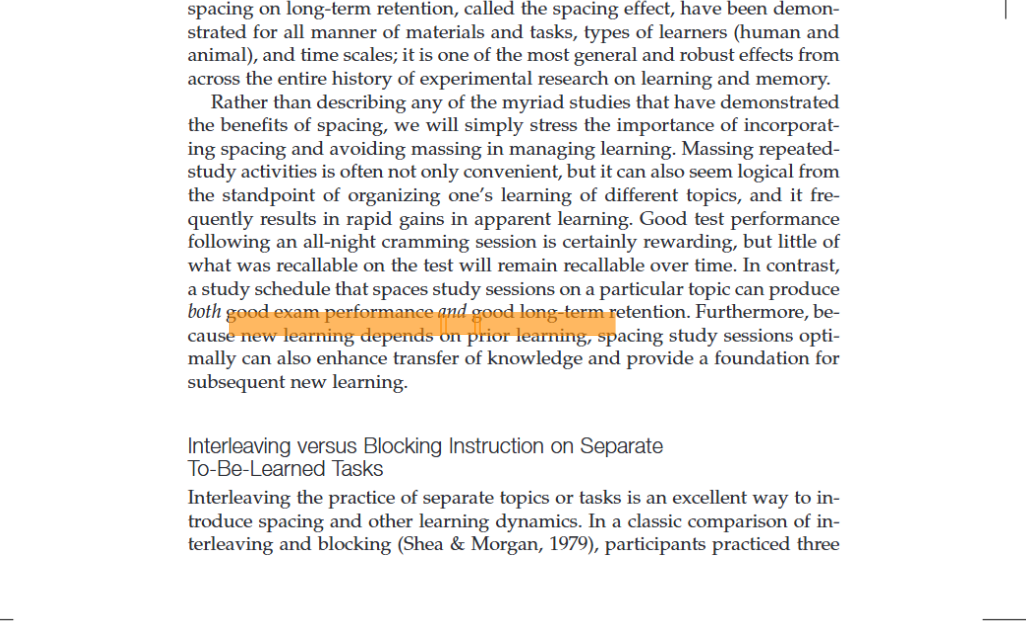
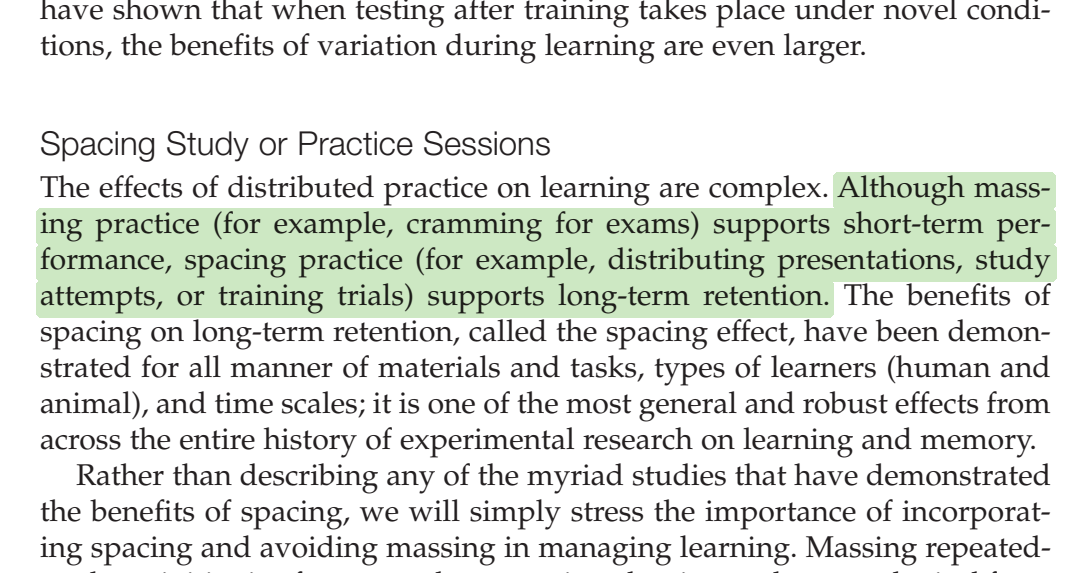
Proof image: highlight drawn exactly over the supporting sentence; scope no-account and offline claims to the free tier, disclose paid-tier licence checks

diff --git a/index.html b/index.html
@@ -111,10 +111,10 @@
   <header data-screen-label="Hero" style="max-width: 1200px; margin: 0px auto; padding: 64px 40px 40px; display: grid; grid-template-columns: 1fr; gap: 44px; align-items: start; animation: 0.6s ease-out 0s 1 normal both running riseIn;">
     <div>
       <div style="display: inline-flex; align-items: center; gap: 10px; font-family: &quot;IBM Plex Mono&quot;, monospace; font-size: 11.5px; letter-spacing: 0.16em; text-transform: uppercase; color: var(--accent-deep,#2F5E3A); background: var(--accent-soft,#E3EDDD); border-radius: 999px; padding: 6px 13px; margin-bottom: 26px;">
-        <span style="width: 6px; height: 6px; border-radius: 50%; background: var(--accent,#3E7A4C);"></span>Local-first · Windows · Free, no account
+        <span style="width: 6px; height: 6px; border-radius: 50%; background: var(--accent,#3E7A4C);"></span>Local-first · Windows · Free tier, no account
       </div>
       <h1 style="margin: 0px; font-family: Newsreader, serif; font-weight: 500; font-size: 54px; line-height: 1.08; letter-spacing: -0.02em;">A word processor that cites <span style="color: var(--accent-deep,#2F5E3A);">from your own PDFs</span>, offline.</h1>
-      <p style="margin: 22px 0px 0px; font-size: 18px; line-height: 1.6; color: var(--ink-2); max-width: 640px;">Draft with a local AI model, cite passages from PDFs you already own, and click any citation to open the exact page it came from. Runs on your machine. Free, no account, Windows.</p>
+      <p style="margin: 22px 0px 0px; font-size: 18px; line-height: 1.6; color: var(--ink-2); max-width: 640px;">Draft with a local AI model, cite passages from PDFs you already own, and click any citation to open the exact page it came from. Runs on your machine. The free tier needs no account. Windows.</p>
       <div style="display: flex; align-items: center; gap: 16px; margin-top: 34px; flex-wrap: wrap;">
         <a href="https://github.com/karamilabs/vivascri-releases/releases/download/v1.1.0/Vivascri-Lite-1.1.0.exe" class="scp1" style="display: inline-flex; align-items: center; gap: 10px; background: var(--accent,#3E7A4C); color: var(--cream); text-decoration: none; font-size: 16px; font-weight: 600; padding: 15px 24px; border-radius: 10px; box-shadow: rgba(62, 122, 76, 0.6) 0px 12px 24px -12px;">
           <svg viewBox="0 0 24 24" style="width: 18px; height: 18px;"><path d="M12 3v11m0 0l-4-4m4 4l4-4M5 20h14" style="fill: none; stroke: currentcolor; stroke-width: 2; stroke-linecap: round; stroke-linejoin: round;"></path></svg>
@@ -259,7 +259,7 @@
       <div style="display: grid; grid-template-columns: 1.1fr 1fr; gap: 56px; align-items: start;">
         <div>
           <h2 style="margin: 0px 0px 18px; font-family: Newsreader, serif; font-weight: 500; font-size: 40px; line-height: 1.12; letter-spacing: -0.015em;">This site practices the privacy it preaches.</h2>
-          <p style="margin: 0px; font-size: 17px; line-height: 1.62; color: rgb(216, 207, 190); max-width: 480px;">Vivascri is built local-first. The app you download needs no account and sends nothing. The only network calls are ones you start yourself, like fetching a model or adding a paper by link.</p>
+          <p style="margin: 0px; font-size: 17px; line-height: 1.62; color: rgb(216, 207, 190); max-width: 480px;">Vivascri is built local-first. The app you download needs no account and sends nothing. The only network calls are ones you start yourself, like fetching a model or adding a paper by link, plus a licence check for paid tiers.</p>
           
         </div>
         <div style="display: flex; flex-direction: column; gap: 2px; background: rgba(246, 239, 225, 0.1); border-radius: 12px; overflow: hidden;">
@@ -269,11 +269,11 @@
           </div>
           <div style="display: flex; gap: 13px; padding: 18px 20px; background: rgba(246, 239, 225, 0.03);">
             <svg viewBox="0 0 24 24" style="width: 20px; height: 20px; flex: 0 0 auto; color: var(--accent,#3E7A4C); margin-top: 1px;"><circle cx="12" cy="12" r="10" style="fill: currentcolor;"></circle><path d="M8 12.5l2.5 2.5L16 9" style="fill: none; stroke: rgb(33, 30, 27); stroke-width: 2; stroke-linecap: round; stroke-linejoin: round;"></path></svg>
-            <div><div style="font-size: 15px; font-weight: 600; margin-bottom: 3px;">No telemetry, no upload</div><div style="font-size: 13.5px; color: rgb(184, 175, 159); line-height: 1.55;">Your drafts and PDFs stay on your disk, full stop.</div></div>
+            <div><div style="font-size: 15px; font-weight: 600; margin-bottom: 3px;">No telemetry, no upload</div><div style="font-size: 13.5px; color: rgb(184, 175, 159); line-height: 1.55;">Your drafts and PDFs stay on your disk. Paid tiers make one kind of outbound call: checking their licence key.</div></div>
           </div>
           <div style="display: flex; gap: 13px; padding: 18px 20px; background: rgba(246, 239, 225, 0.03);">
             <svg viewBox="0 0 24 24" style="width: 20px; height: 20px; flex: 0 0 auto; color: var(--accent,#3E7A4C); margin-top: 1px;"><circle cx="12" cy="12" r="10" style="fill: currentcolor;"></circle><path d="M8 12.5l2.5 2.5L16 9" style="fill: none; stroke: rgb(33, 30, 27); stroke-width: 2; stroke-linecap: round; stroke-linejoin: round;"></path></svg>
-            <div><div style="font-size: 15px; font-weight: 600; margin-bottom: 3px;">Opt-in cloud AI, clearly labelled</div><div style="font-size: 13.5px; color: rgb(184, 175, 159); line-height: 1.55;">Connect Claude or GPT with your own key and the app shows it while it is on. Off by default; the paid tiers stay local.</div></div>
+            <div><div style="font-size: 15px; font-weight: 600; margin-bottom: 3px;">Opt-in cloud AI, clearly labelled</div><div style="font-size: 13.5px; color: rgb(184, 175, 159); line-height: 1.55;">Connect Claude or GPT with your own key and the app shows it while it is on. Off by default. Paid-tier retrieval still runs locally.</div></div>
           </div>
           <div style="display: flex; gap: 13px; padding: 18px 20px; background: rgba(246, 239, 225, 0.03);">
             <svg viewBox="0 0 24 24" style="width: 20px; height: 20px; flex: 0 0 auto; color: var(--accent,#3E7A4C); margin-top: 1px;"><circle cx="12" cy="12" r="10" style="fill: currentcolor;"></circle><path d="M8 12.5l2.5 2.5L16 9" style="fill: none; stroke: rgb(33, 30, 27); stroke-width: 2; stroke-linecap: round; stroke-linejoin: round;"></path></svg>
@@ -345,7 +345,7 @@
         <div style="font-size: 13px; color: var(--muted); margin-bottom: 8px;">per month, billed annually</div>
         <div style="display: inline-block; font-family: &quot;IBM Plex Mono&quot;, monospace; font-size: 11px; color: var(--accent-deep,#2F5E3A); background: var(--accent-soft,#E3EDDD); border-radius: 5px; padding: 4px 8px; margin-bottom: 18px; align-self: flex-start;">$5/mo for students</div>
         <div style="display: flex; flex-direction: column; gap: 9px; font-size: 13.5px; color: var(--ink-2); margin-bottom: 22px;">
-          <span style="display: flex; gap: 9px;"><span style="color: var(--accent,#3E7A4C);">✓</span> Everything in Free</span>
+          <span style="display: flex; gap: 9px;"><span style="color: var(--accent,#3E7A4C);">✓</span> Everything in Free, unlocked with a licence key</span>
           <span style="display: flex; gap: 9px;"><span style="color: var(--accent,#3E7A4C);">✓</span> Neural re-ranking for sharper, more relevant sources</span>
           <span style="display: flex; gap: 9px;"><span style="color: var(--accent,#3E7A4C);">✓</span> Query expansion + iterative grounding for hard questions</span>
         </div>
@@ -368,7 +368,7 @@
     <div style="display: flex; align-items: center; gap: 14px; margin-top: 18px; font-size: 13px; color: var(--muted); flex-wrap: wrap;">
       <span style="font-family: &quot;IBM Plex Mono&quot;, monospace; font-size: 11px; letter-spacing: 0.08em; text-transform: uppercase; color: var(--faint);">Indicative pricing · not final</span>
       <span style="width: 1px; height: 13px; background: var(--line-2);"></span>
-      <span>Paid tiers sharpen retrieval. The core app is free, local, and offline.</span>
+      <span>Paid tiers sharpen retrieval and are sold through Lemon Squeezy with a licence key that checks in online now and then. The free app is local and offline with no account.</span>
       
     </div>
   </section>
@@ -390,7 +390,7 @@
               <span style="flex: 0 0 auto; font-family: &quot;IBM Plex Sans&quot;, sans-serif; font-size: 24px; color: var(--accent,#3E7A4C); width: 24px; text-align: center;">–</span>
             </button>
             
-              <div style="padding: 0px 2px 22px; max-width: 660px; font-size: 15px; line-height: 1.66; color: var(--muted);">Yes. The app is free, local, and offline, with no account required. The paid tiers add stronger retrieval models that also run on your machine, and you never need them to write and cite.</div>
+              <div style="padding: 0px 2px 22px; max-width: 660px; font-size: 15px; line-height: 1.66; color: var(--muted);">The free tier is free, local, and offline, with no account. The paid tiers add stronger retrieval models that also run on your machine; they come with a licence key from our payment provider, Lemon Squeezy, which the app verifies online occasionally. You never need a paid tier to write and cite.</div>
             
           </div>
         
@@ -399,7 +399,7 @@
               <span>Does my work leave my computer?</span>
               <span style="flex: 0 0 auto; font-family: &quot;IBM Plex Sans&quot;, sans-serif; font-size: 24px; color: var(--accent,#3E7A4C); width: 24px; text-align: center;">+</span>
             </button>
-              <div style="padding: 0px 2px 22px; max-width: 660px; font-size: 15px; line-height: 1.66; color: var(--muted);">No. Writing, your PDF library, search, citations, and AI drafting all run on your machine. The only network calls are ones you start yourself: downloading an AI model, or adding a paper by DOI or link, which fetches a free open-access copy. If you connect a cloud AI (Claude or GPT) in Settings, your text goes to that provider; that is off by default and clearly marked. No account, no telemetry, nothing else uploaded.</div>
+              <div style="padding: 0px 2px 22px; max-width: 660px; font-size: 15px; line-height: 1.66; color: var(--muted);">No. Writing, your PDF library, search, citations, and AI drafting all run on your machine. The only network calls are ones you start yourself: downloading an AI model, or adding a paper by DOI or link, which fetches a free open-access copy. If you connect a cloud AI (Claude or GPT) in Settings, your text goes to that provider; that is off by default and clearly marked. Paid tiers verify their licence key online now and then, sending the key and nothing about your documents. No telemetry, nothing else uploaded.</div>
             
             
           </div>
@@ -409,7 +409,7 @@
               <span>Do I need an internet connection?</span>
               <span style="flex: 0 0 auto; font-family: &quot;IBM Plex Sans&quot;, sans-serif; font-size: 24px; color: var(--accent,#3E7A4C); width: 24px; text-align: center;">+</span>
             </button>
-              <div style="padding: 0px 2px 22px; max-width: 660px; font-size: 15px; line-height: 1.66; color: var(--muted);">Twice. Once to download the app, and once on first launch, when it fetches a small AI model (about 1 GB, one time). After that, writing, citing, and AI drafting work fully offline. Adding a paper by DOI or link needs a connection; dropping in PDFs you already have does not.</div>
+              <div style="padding: 0px 2px 22px; max-width: 660px; font-size: 15px; line-height: 1.66; color: var(--muted);">Twice. Once to download the app, and once on first launch, when it fetches a small AI model (about 1 GB, one time). After that, writing, citing, and AI drafting work fully offline. Adding a paper by DOI or link needs a connection; dropping in PDFs you already have does not. Paid tiers also need to reach the internet occasionally to confirm their licence key.</div>
             
             
           </div>

diff --git a/privacy.html b/privacy.html
@@ -44,10 +44,12 @@
 
   <h2>The app</h2>
   <ul>
-    <li><strong>No account.</strong> The free app needs no sign-up and no login.</li>
+    <li><strong>No account for the free tier.</strong> The free app needs no sign-up and no login. Paid tiers
+      use the customer account Lemon Squeezy creates at checkout.</li>
     <li><strong>Nothing is uploaded.</strong> Your drafts, your PDFs, the AI drafting, and the grounded
       citations all run on your machine. There is no server that sees your writing.</li>
-    <li><strong>No telemetry.</strong> The app does not phone home, track usage, or send analytics.</li>
+    <li><strong>No telemetry.</strong> The app does not track usage or send analytics. The only scheduled
+      network call is the paid tiers' licence check described below.</li>
     <li><strong>Optional web fetch, only when you ask.</strong> If you paste a DOI, arXiv link, or URL to
       add a paper, the app requests that one open-access source (and, for citation lookups you initiate,
       the public metadata for it). Nothing about your document is sent; only the identifier you typed.</li>
@@ -57,8 +59,11 @@
     <li><strong>Optional cloud AI, only if you connect one.</strong> In Settings you can point drafting at
       Claude or GPT with your own API key. If you do, the text you ask it to work on goes to that provider under
       their terms. This is off by default and the app shows a clear indicator while it is on.</li>
-    <li><strong>Paid tiers are still local.</strong> Scholar and Pro add stronger retrieval models that run on
-      your machine. They involve no account, no sync, and no server of ours.</li>
+    <li><strong>Paid tiers: local retrieval, plus a licence check.</strong> Scholar and Pro add stronger
+      retrieval models that run on your machine. They are unlocked with a licence key issued at purchase by
+      Lemon Squeezy, and the app confirms that key with Lemon Squeezy's licensing service from time to time.
+      That check sends the key and basic device information only, never your documents or library. Your
+      Lemon Squeezy customer account (email, orders, invoices) is held by them under their privacy policy.</li>
   </ul>
 
   <h2>This website</h2>

diff --git a/terms.html b/terms.html
@@ -44,18 +44,25 @@
   <h2>1. What Vivascri is</h2>
   <p>Vivascri is a desktop writing application for Windows. It runs on your own computer. The free tier is
   complete for a solo writer and needs no account. Paid tiers (Scholar, Pro) add stronger retrieval models
-  that also run on your computer. No tier depends on a Vivascri server.</p>
+  that also run on your computer and are unlocked with a licence key. Your documents and library never
+  depend on a Vivascri server; the paid features do need an occasional internet connection to confirm the
+  licence key.</p>
 
   <h2>2. Your licence</h2>
   <p>We grant you a personal, non-exclusive, non-transferable licence to install and use Vivascri on
-  computers you own or control. A paid tier is licensed to one person; a Team purchase is licensed per seat.
+  computers you own or control. A paid tier is licensed to one person and one activated computer at a time
+  (deactivate to move it); a Team purchase is licensed per seat. Paid tiers verify the licence key with
+  Lemon Squeezy's licensing service periodically; if the key cannot be confirmed for an extended time, or
+  the purchase is refunded or a subscription lapses, the paid features switch off and the free tier keeps
+  working. Sharing or publishing a licence key ends it.
   You may not resell, rent, sublicense, or redistribute the software, remove notices from it, or reverse
   engineer, decompile, or extract its compiled code except where law expressly permits.</p>
 
   <h2>3. Your work is yours</h2>
   <p>Everything you write, every PDF you add, every citation you place belongs to you. Vivascri claims no
   rights over your documents or your library, and it never receives them: the app has no telemetry and
-  uploads nothing. See the <a href="./privacy.html">privacy policy</a>.</p>
+  uploads nothing except, for paid tiers, the licence check described in the
+  <a href="./privacy.html">privacy policy</a>.</p>
 
   <h2>4. AI output</h2>
   <p>Drafting and chat run on a local language model. Model output can be wrong. Vivascri's grounded citations
